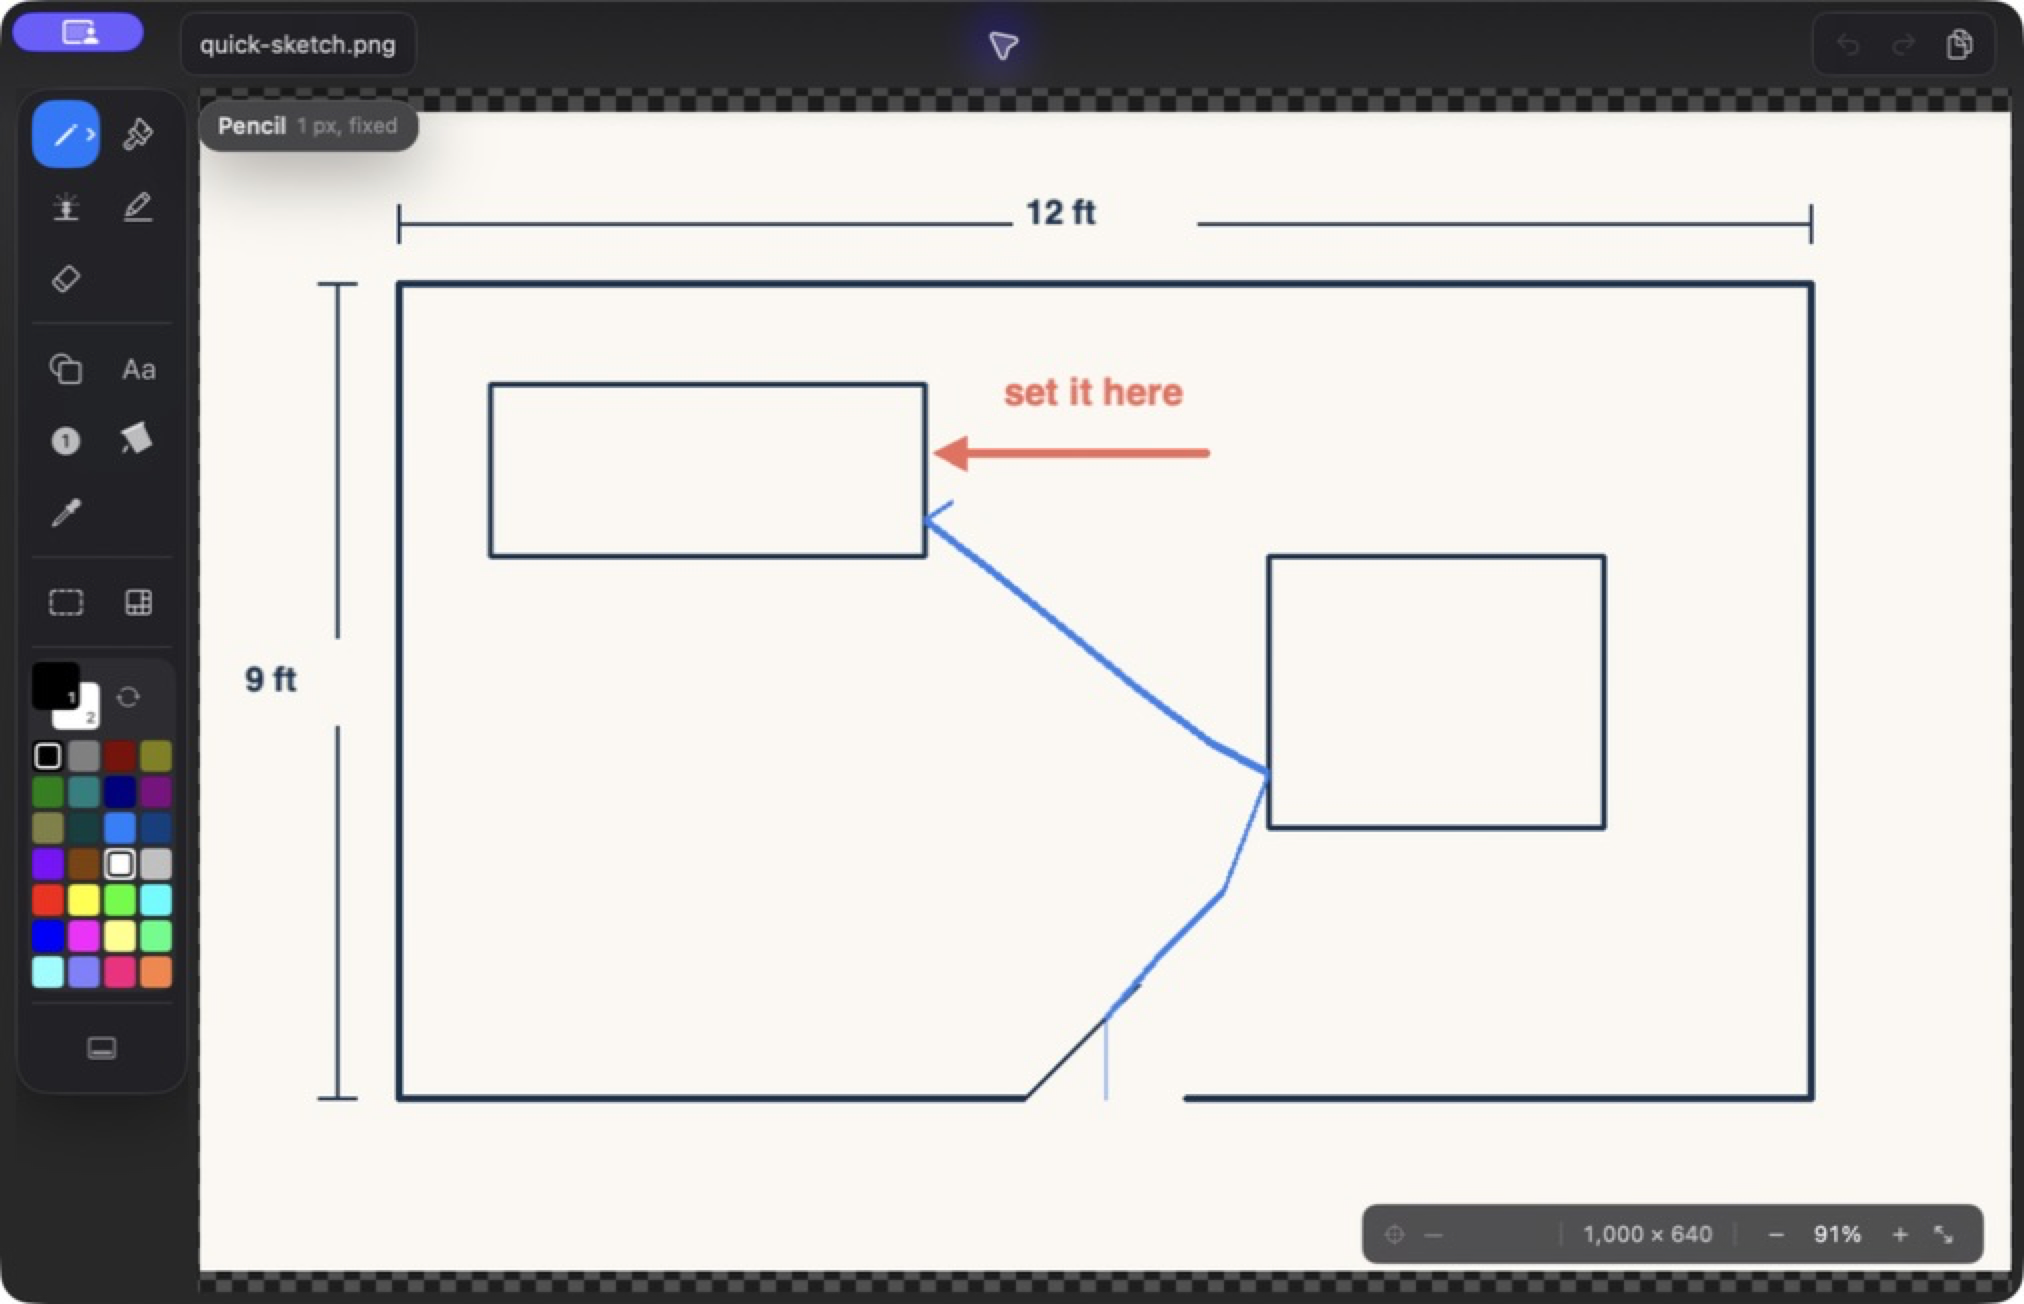
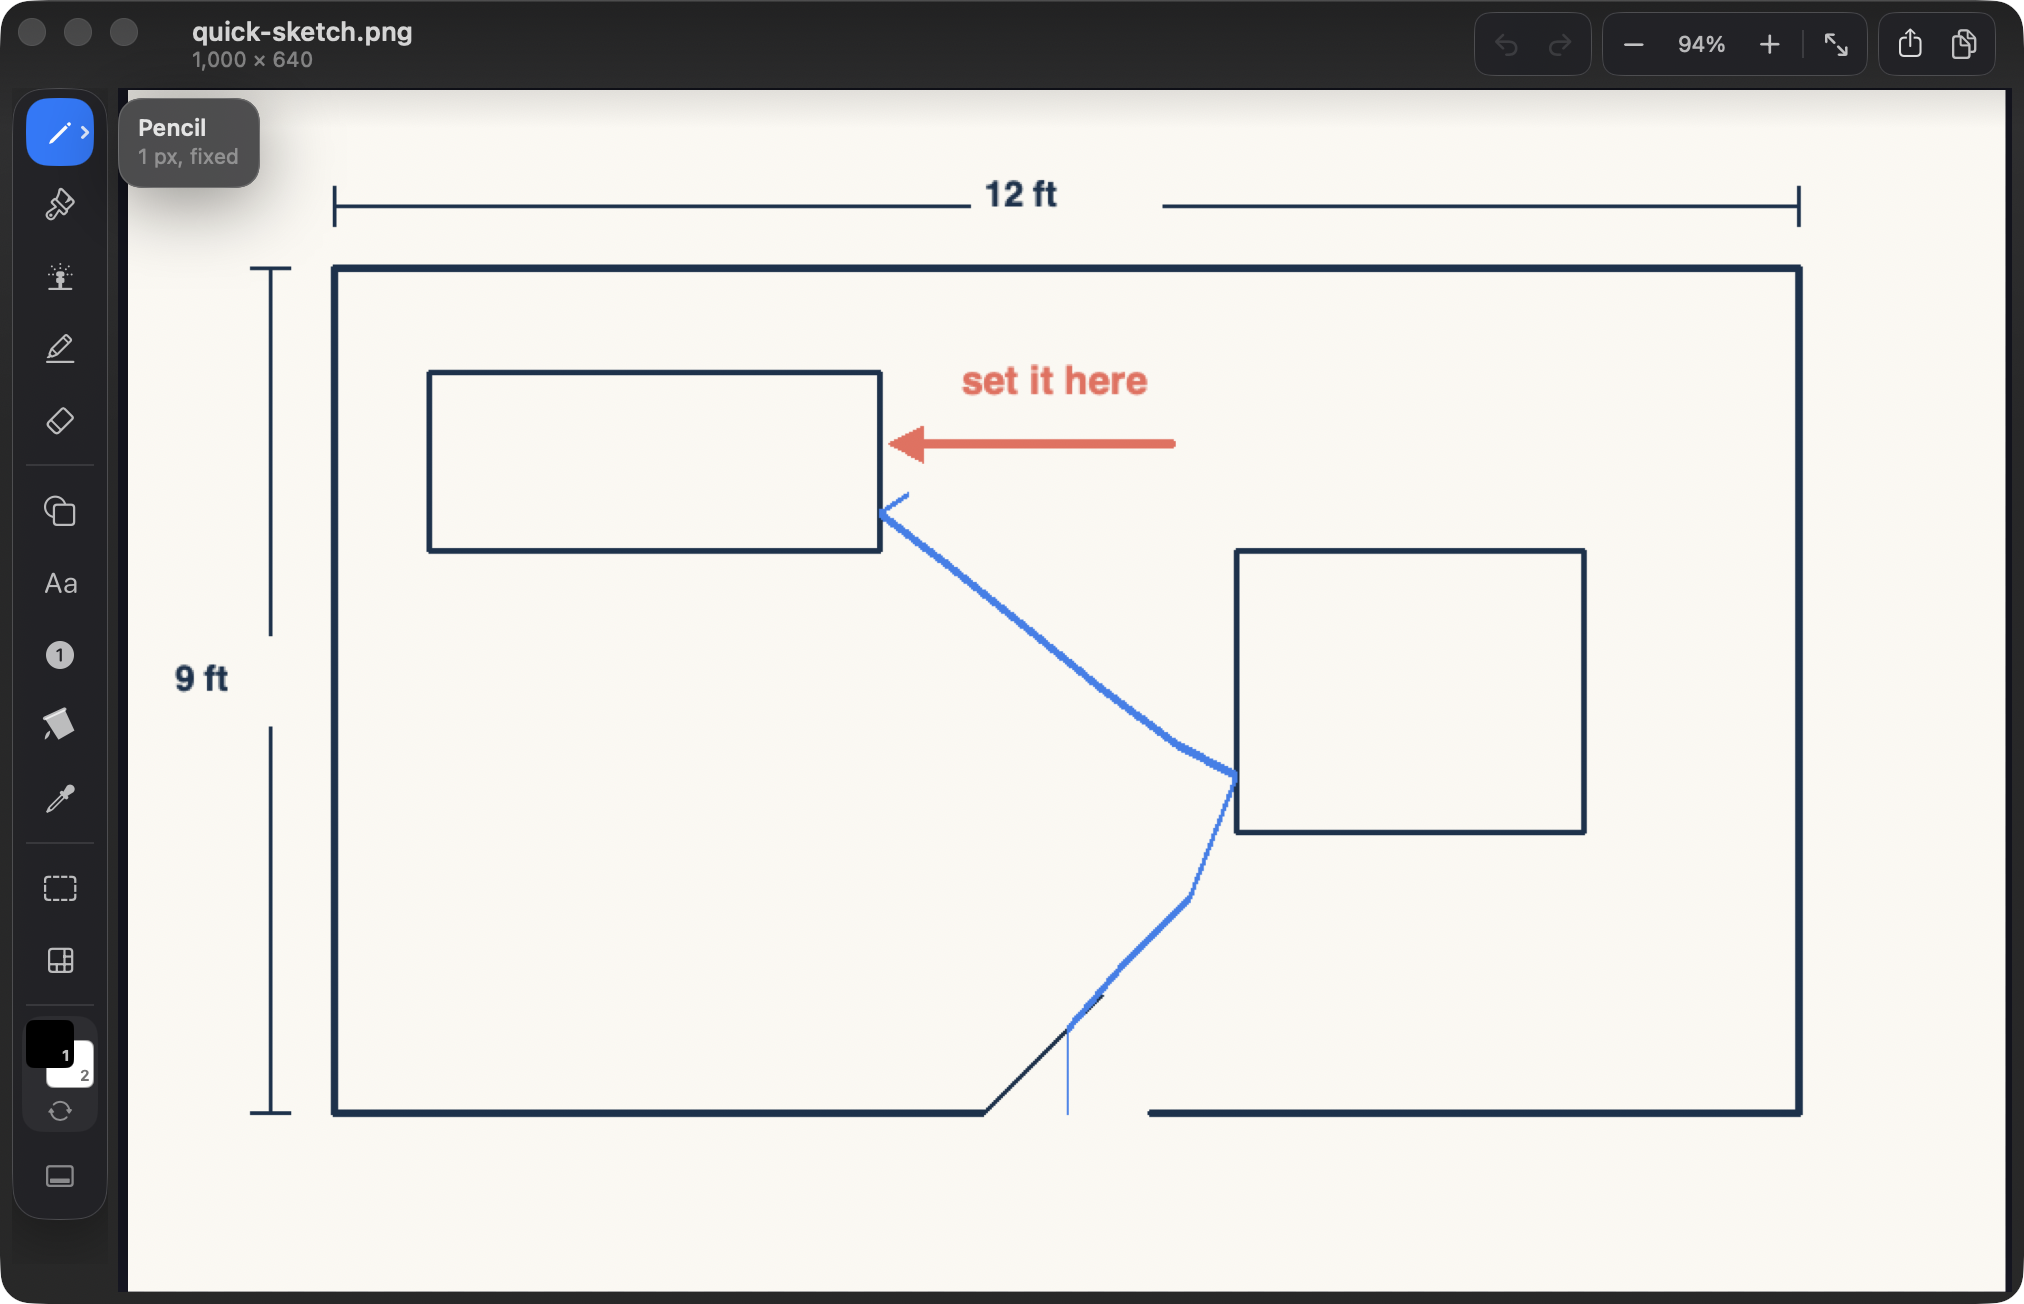
Recapture the screenshots against the current interface
Every asset still showed the old chrome: an 86pt two-column rail with a
seven-row palette, a bordered title chip, the zoom strip floating over the
bottom-right of the artwork, and the band of transparency checkerboard
along the top and bottom edge that turned out to be a clipping bug.

Captured from a Release build at the documented 2024x1304, with the scenes
regenerated by the same `paint-demo` commands, so the images are
reproducible rather than hand-assembled. The social preview is derived
from the new hero capture.

Shot with the Pencil selected rather than the Brush. Its options panel is
the compact one, and the Brush panel covered the first step badge on the
photo — an asset that hides the thing it is demonstrating is the wrong
asset, even if the panel is more interesting.

README gains the two capabilities the screenshots now show: paste that
grows the canvas instead of cropping, and rotation by an arbitrary angle.

Changed region(s): [[0.0, 0.0, 1.0, 1.0]]

diff --git a/README.md b/README.md
@@ -33,6 +33,9 @@ clipboard out.png</code>.</sub>
   left and bottom of the window.
 - **Precise canvas control** with pointer-centred zoom, nearest-neighbour display
   above 100%, pixel grids, and live tool footprints.
+- **Paste without losing anything** — the canvas grows to hold an image larger
+  than it, and the window follows, so nothing is cropped when you place it.
+- **Rotate by any angle**, with the canvas growing to fit the corners.
 - **Native documents and common exports** with no third-party dependencies,
   accounts, telemetry, or cloud service.
 
